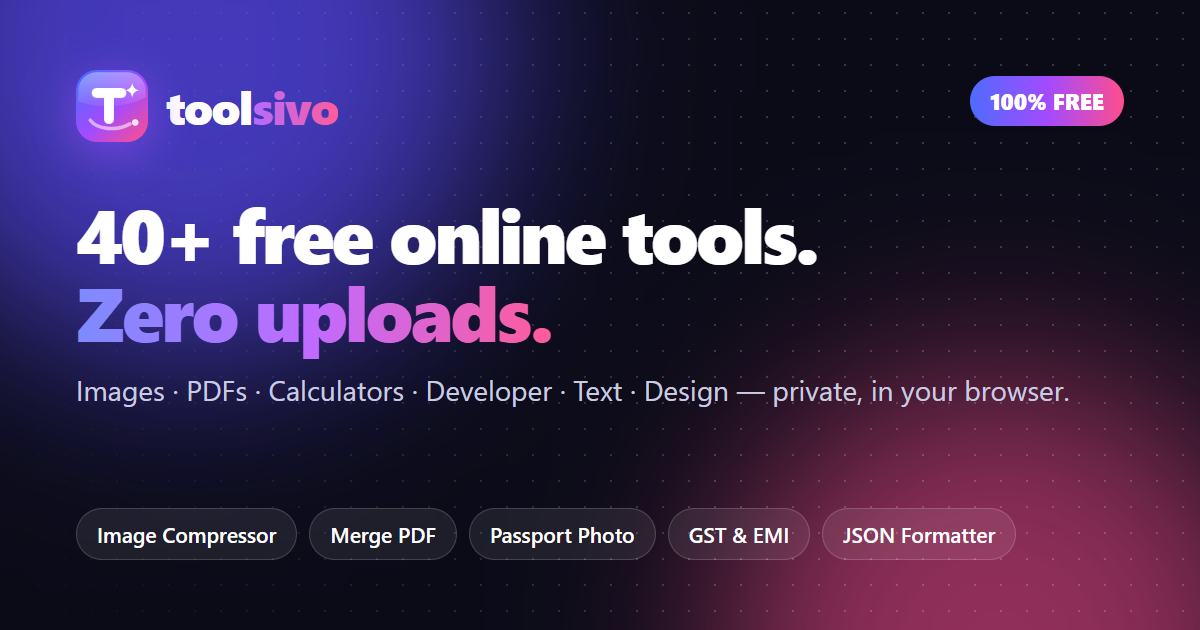
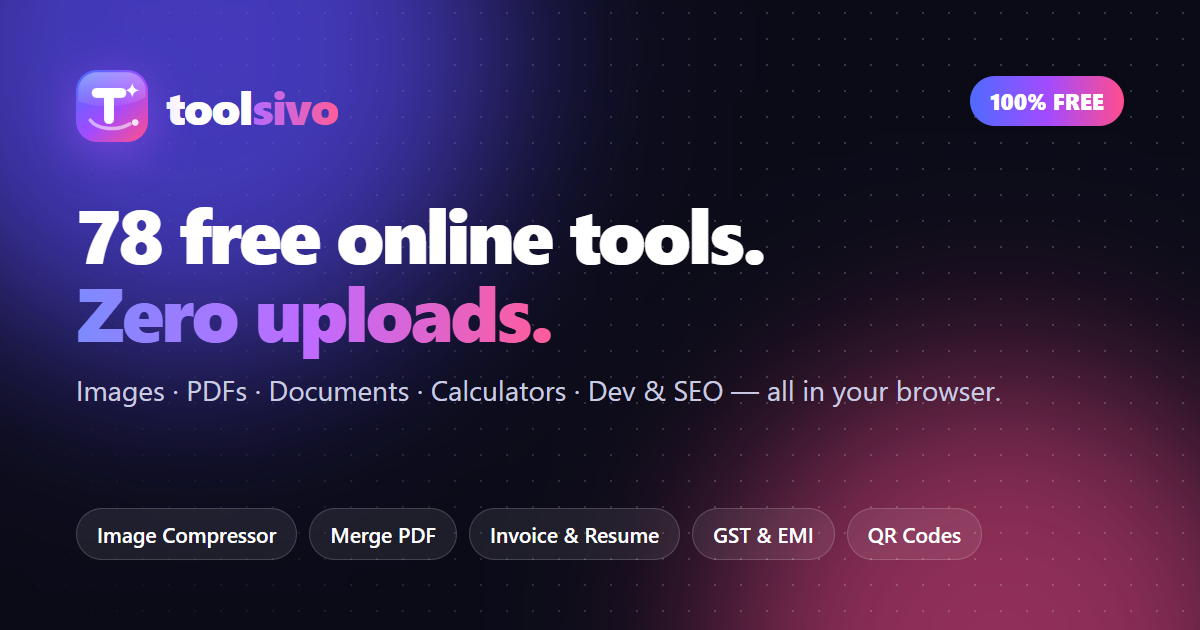
Show the real tool count (78) everywhere and refresh share previews
- Site description, home title and keywords now use the live tool count
- Header search, footer, FAQ, 404 and sample texts no longer say 40+
- New 78-tool Open Graph image, versioned (?v=78) so WhatsApp/Facebook fetch it fresh
- og:image:type and descriptive alt text; ItemList structured data on /tools

Changed region(s): [[0.0617, 0.3317, 0.6783, 0.4222], [0.2158, 0.6032, 0.8942, 0.6635], [0.4008, 0.8143, 0.8325, 0.8746]]

diff --git a/lib/site.js b/lib/site.js
@@ -1,3 +1,6 @@
+
+import { tools, categories } from "./tools";
+
 // Central site + SEO settings.
 // NEXT_PUBLIC_SITE_URL is set by the deploy workflow from GitHub Pages
 // (e.g. https://ravijha.github.io/toolsivo, or https://toolsivo.com once a custom domain is connected).
@@ -7,8 +10,9 @@ export const SITE = {
   basePath: process.env.NEXT_PUBLIC_BASE_PATH || "",
   email: "toolsivo@gmail.com",
   tagline: "Every tool you need, right in your browser",
-  description:
-    "Toolsivo offers 40+ free online tools: image cropper, compressor, passport photo maker, PDF merge & split, EMI, GST & salary calculators, JSON formatter, regex tester and more. 100% in-browser, fast and private.",
+  toolCount: tools.length,
+  categoryCount: categories.length,
+  description: `Toolsivo offers ${tools.length} free online tools: image compressor, passport photo maker, PDF merge & split, invoice & resume makers, QR code generator & reader, EMI, GST & salary calculators, JSON & SQL formatters and more. 100% in-browser, fast and private — no sign-up.`,
   keywords: [
     "free online tools", "online tools", "image compressor", "image resizer", "crop image online", "jpg to png", "png to jpg",
     "image to webp", "passport size photo maker", "merge pdf", "split pdf", "compress pdf", "images to pdf", "rotate pdf",
@@ -16,9 +20,13 @@ export const SITE = {
     "percentage calculator", "discount calculator", "json formatter", "base64 encoder decoder", "url encoder", "uuid generator",
     "unix timestamp converter", "regex tester", "html css js minifier", "word counter", "text compare", "slug generator",
     "lorem ipsum generator", "youtube thumbnail resizer", "social media image resizer", "favicon generator",
-    "color palette generator", "image watermark", "toolsivo",
+    "color palette generator", "image watermark", "image to text ocr", "qr code generator", "qr code reader", "password generator",
+    "invoice generator", "gst invoice generator", "quotation generator", "resume builder", "label maker", "meeting agenda template",
+    "time zone converter", "loan prepayment calculator", "fuel cost calculator", "split bill calculator", "json to typescript",
+    "sql formatter", "cron expression generator", "markdown table generator", "email signature generator", "color contrast checker",
+    "sha256 checksum", "exif remover", "text to speech", "csv viewer", "robots.txt generator", "xml sitemap generator", "toolsivo",
   ],
-  ogImage: "/og-image.png",
+  ogImage: `/og-image.png?v=${tools.length}`,
   locale: "en_IN",
   updated: "22 October 2026",
   // Optional, set as GitHub repository variables (see README): ADSENSE_CLIENT, GOOGLE_SITE_VERIFICATION
@@ -33,7 +41,7 @@ export const abs = (path = "/") => SITE.url + path;
 export function pageMeta({ title, description, path = "/", keywords = [], absoluteTitle = false }) {
   const url = abs(path);
   const fullTitle = absoluteTitle ? title : `${title} · ${SITE.name}`;
-  const image = { url: abs(SITE.ogImage), width: 1200, height: 630, alt: `${SITE.name} — ${SITE.tagline}` };
+  const image = { url: abs(SITE.ogImage), width: 1200, height: 630, type: "image/png", alt: `${SITE.name} — ${SITE.toolCount} free online tools, right in your browser` };
   return {
     title: absoluteTitle ? { absolute: title } : title,
     description,

diff --git a/app/page.js b/app/page.js
@@ -26,7 +26,7 @@ const features = [
 
 const faqs = [
   { q: "Are my files uploaded anywhere?", a: "No. Every Toolsivo tool runs entirely in your browser using JavaScript, HTML Canvas and Web APIs. Your images, PDFs and text never leave your device." },
-  { q: "Is Toolsivo really free?", a: "Yes. All 40+ tools are completely free to use with no sign-up, no hidden limits and no watermarks added to your files." },
+  { q: "Is Toolsivo really free?", a: `Yes. All ${tools.length} tools are completely free to use with no sign-up, no hidden limits and no watermarks added to your files.` },
   { q: "Which browsers are supported?", a: "Any modern browser — Chrome, Edge, Firefox, Safari and their mobile versions. For the best experience keep your browser up to date." },
   { q: "How accurate are the Indian tax and GST calculators?", a: "They follow the current published slabs and rates (FY 2025-26 for income tax). They’re great for planning, but always confirm final figures with a tax professional." },
   { q: "Can I use Toolsivo offline?", a: "Once a tool page has loaded, most tools keep working without a connection because all the processing happens on your device." },
@@ -123,7 +123,7 @@ export default function Home() {
           </div>
           <div className="steps">
             {[
-              { i: MousePointerClick, t: "Pick a tool", d: "Search or browse 40+ focused tools across images, PDFs, calculators, code and text." },
+              { i: MousePointerClick, t: "Pick a tool", d: `Search or browse ${tools.length} focused tools across images, PDFs, documents, calculators, code and more.` },
               { i: Wand2, t: "Do the task", d: "Drop your file or type your input. Tweak settings with live, instant previews." },
               { i: Download, t: "Download", d: "Grab your result in one click — single files, or everything bundled as a ZIP." },
             ].map((s, n) => (

diff --git a/app/tools/page.js b/app/tools/page.js
@@ -1,11 +1,12 @@
 import ToolExplorer from "@/components/ToolExplorer";
 import { tools } from "@/lib/tools";
 
-import { pageMeta } from "@/lib/site";
+import { abs, pageMeta } from "@/lib/site";
+import JsonLd from "@/components/JsonLd";
 
 export const metadata = pageMeta({
-  title: "All Free Online Tools",
-  description: "Browse every free Toolsivo tool — image, PDF, calculators, developer, text and design utilities. No sign-up, no uploads, 100% in your browser.",
+  title: `All ${tools.length} Free Online Tools`,
+  description: `Browse all ${tools.length} free Toolsivo tools — image, PDF, document, calculator, developer, SEO, media, text and design utilities. No sign-up, no uploads, 100% in your browser.`,
   path: "/tools/",
 });
 
@@ -17,6 +18,15 @@ export default function AllTools() {
         <h1>All <span className="grad-text">{tools.length}</span> tools</h1>
         <p>Search, filter and open any tool — everything runs privately in your browser.</p>
       </div>
+      <JsonLd
+        data={{
+          "@context": "https://schema.org",
+          "@type": "ItemList",
+          name: "All Toolsivo tools",
+          numberOfItems: tools.length,
+          itemListElement: tools.map((t, i) => ({ "@type": "ListItem", position: i + 1, name: t.name, url: abs(`/tools/${t.slug}/`) })),
+        }}
+      />
       <ToolExplorer />
     </div>
   );

diff --git a/tools/MetaPreview.js b/tools/MetaPreview.js
@@ -2,6 +2,7 @@
 import { useMemo, useState } from "react";
 import { Monitor, Smartphone, CheckCircle2, AlertTriangle } from "lucide-react";
 import { Field, Seg, CopyBtn } from "@/components/ui";
+import { tools } from "@/lib/tools";
 
 // Google truncates by pixel width (≈600px titles, ≈920px descriptions on desktop), not characters.
 let ctx;
@@ -23,7 +24,7 @@ const esc = (s) => s.replace(/&/g, "&amp;").replace(/"/g, "&quot;").replace(/</g
 
 export default function MetaPreview() {
   const [title, setTitle] = useState("Free Online Tools — Compress, Convert & Calculate | Toolsivo");
-  const [desc, setDesc] = useState("Toolsivo offers 50+ free online tools: image compressor, PDF merge, GST and EMI calculators, JSON formatter and more. Fast, private and 100% in your browser — no sign-up.");
+  const [desc, setDesc] = useState(`Toolsivo offers ${tools.length} free online tools: image compressor, PDF merge, GST and EMI calculators, JSON formatter and more. Fast, private and 100% in your browser — no sign-up.`);
   const [url, setUrl] = useState("https://toolsivo.com/tools/image-compressor/");
   const [site, setSite] = useState("Toolsivo");
   const [view, setView] = useState("desktop");

diff --git a/tools/OgPreview.js b/tools/OgPreview.js
@@ -2,6 +2,7 @@
 import { useState } from "react";
 import { ImageIcon } from "lucide-react";
 import { Field, Seg, CopyBtn, Msg, Dropzone } from "@/components/ui";
+import { tools } from "@/lib/tools";
 
 const esc = (s) => s.replace(/&/g, "&amp;").replace(/"/g, "&quot;").replace(/</g, "&lt;");
 const host = (u) => { try { return new URL(u).host.replace(/^www\./, ""); } catch { return "example.com"; } };
@@ -16,10 +17,10 @@ function Img({ src, ratio = "1.91 / 1", radius = 0 }) {
 
 export default function OgPreview() {
   const [d, setD] = useState({
-    title: "Toolsivo — 50+ Free Online Tools",
+    title: `Toolsivo — ${tools.length} Free Online Tools`,
     desc: "Compress images, merge PDFs, calculate GST and EMI, format JSON and more. Fast, free and private — everything runs in your browser.",
     url: "https://toolsivo.com/",
-    image: "https://toolsivo.com/og-image.png",
+    image: `https://toolsivo.com/og-image.png?v=${tools.length}`,
     site: "Toolsivo",
     type: "website",
     twitter: "",

diff --git a/components/Header.js b/components/Header.js
@@ -5,7 +5,7 @@ import { useEffect, useState } from "react";
 import { ChevronDown, Menu, Moon, Search, Sun, X } from "lucide-react";
 import Logo from "./Logo";
 import { CatIcon } from "./ToolIcon";
-import { categories, toolsIn } from "@/lib/tools";
+import { categories, tools, toolsIn } from "@/lib/tools";
 
 export function openPalette() {
   window.dispatchEvent(new Event("toolsivo:palette"));
@@ -69,7 +69,7 @@ export default function Header() {
           </nav>
           <div className="header-actions">
             <button className="search-trigger" onClick={openPalette} aria-label="Search tools">
-              <Search size={17} /> <span>Search 40+ tools…</span> <kbd>Ctrl K</kbd>
+              <Search size={17} /> <span>Search {tools.length} tools…</span> <kbd>Ctrl K</kbd>
             </button>
             <ThemeToggle />
             <Link href="/tools" className="btn btn-primary btn-sm" style={{ height: 40 }}>All tools</Link>

diff --git a/app/layout.js b/app/layout.js
@@ -11,7 +11,7 @@ const jakarta = Plus_Jakarta_Sans({ subsets: ["latin"], variable: "--font-jakart
 const mono = JetBrains_Mono({ subsets: ["latin"], variable: "--font-mono", display: "swap" });
 
 const home = pageMeta({
-  title: "Toolsivo — Free Online Image, PDF, Calculator & Developer Tools",
+  title: `Toolsivo — ${SITE.toolCount} Free Online Tools for Images, PDFs, Documents & More`,
   description: SITE.description,
   path: "/",
   absoluteTitle: true,
@@ -20,7 +20,7 @@ const home = pageMeta({
 export const metadata = {
   ...home,
   metadataBase: new URL(SITE.url + "/"),
-  title: { default: "Toolsivo — Free Online Image, PDF, Calculator & Developer Tools", template: "%s · Toolsivo" },
+  title: { default: `Toolsivo — ${SITE.toolCount} Free Online Tools for Images, PDFs, Documents & More`, template: "%s · Toolsivo" },
   applicationName: SITE.name,
   authors: [{ name: SITE.name, url: abs("/") }],
   creator: SITE.name,

diff --git a/components/Footer.js b/components/Footer.js
@@ -1,7 +1,7 @@
 import Link from "next/link";
 import { Heart } from "lucide-react";
 import Logo from "./Logo";
-import { categories, toolsIn } from "@/lib/tools";
+import { categories, tools, toolsIn } from "@/lib/tools";
 
 export default function Footer() {
   return (
@@ -10,7 +10,7 @@ export default function Footer() {
         <div className="footer-grid">
           <div className="footer-about">
             <Logo size={34} showDomain />
-            <p>40+ free, fast and private online tools. Everything runs in your browser — your files never leave your device.</p>
+            <p>{tools.length} free, fast and private online tools. Everything runs in your browser — your files never leave your device.</p>
           </div>
           {categories.map((c) => (
             <div key={c.id}>

diff --git a/tools/TextCompare.js b/tools/TextCompare.js
@@ -2,6 +2,7 @@
 import { useMemo, useState } from "react";
 import { ArrowLeftRight } from "lucide-react";
 import { Seg, Toggle, Stat, Msg } from "@/components/ui";
+import { tools } from "@/lib/tools";
 
 // Line-level LCS diff → [{ type: 'eq'|'add'|'del', a?, b?, text }]
 function diff(A, B) {
@@ -27,7 +28,7 @@ It works in your browser.
 Files are processed locally.
 Pricing: free for everyone.
 Contact: hello@toolsivo.com`;
-const right = `Toolsivo is a collection of 40+ online tools.
+const right = `Toolsivo is a collection of ${tools.length} online tools.
 It works in your browser.
 Files are processed locally and never uploaded.
 Pricing: free for everyone.

diff --git a/app/not-found.js b/app/not-found.js
@@ -1,10 +1,11 @@
 import Link from "next/link";
+import { tools } from "@/lib/tools";
 
 export default function NotFound() {
   return (
     <div className="container cat-page-head" style={{ padding: "100px 0" }}>
       <h1 style={{ fontSize: "6rem" }} className="grad-text">404</h1>
-      <p>We couldn&apos;t find that page, but we have 40+ tools that work.</p>
+      <p>We couldn&apos;t find that page, but we have {tools.length} tools that work.</p>
       <div style={{ marginTop: 26 }}><Link href="/tools" className="btn btn-primary btn-lg">Browse all tools</Link></div>
     </div>
   );
